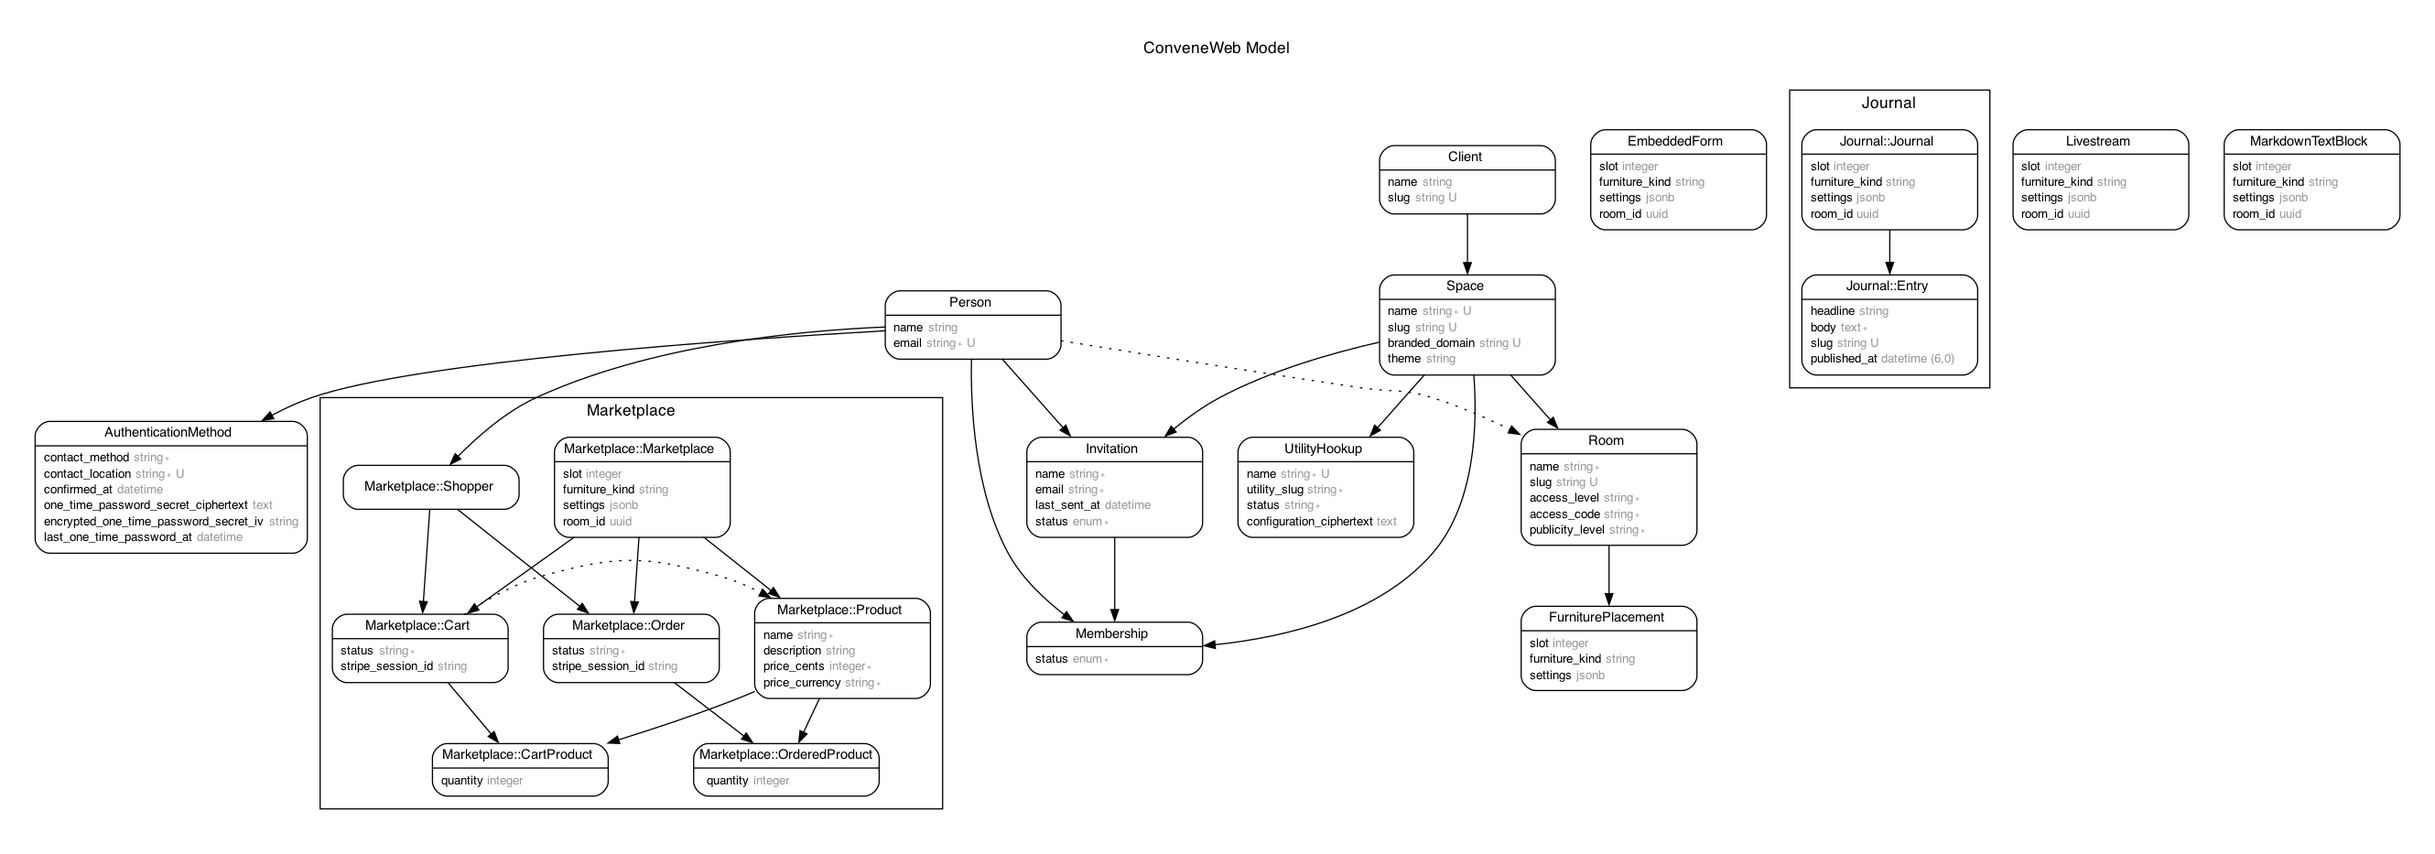
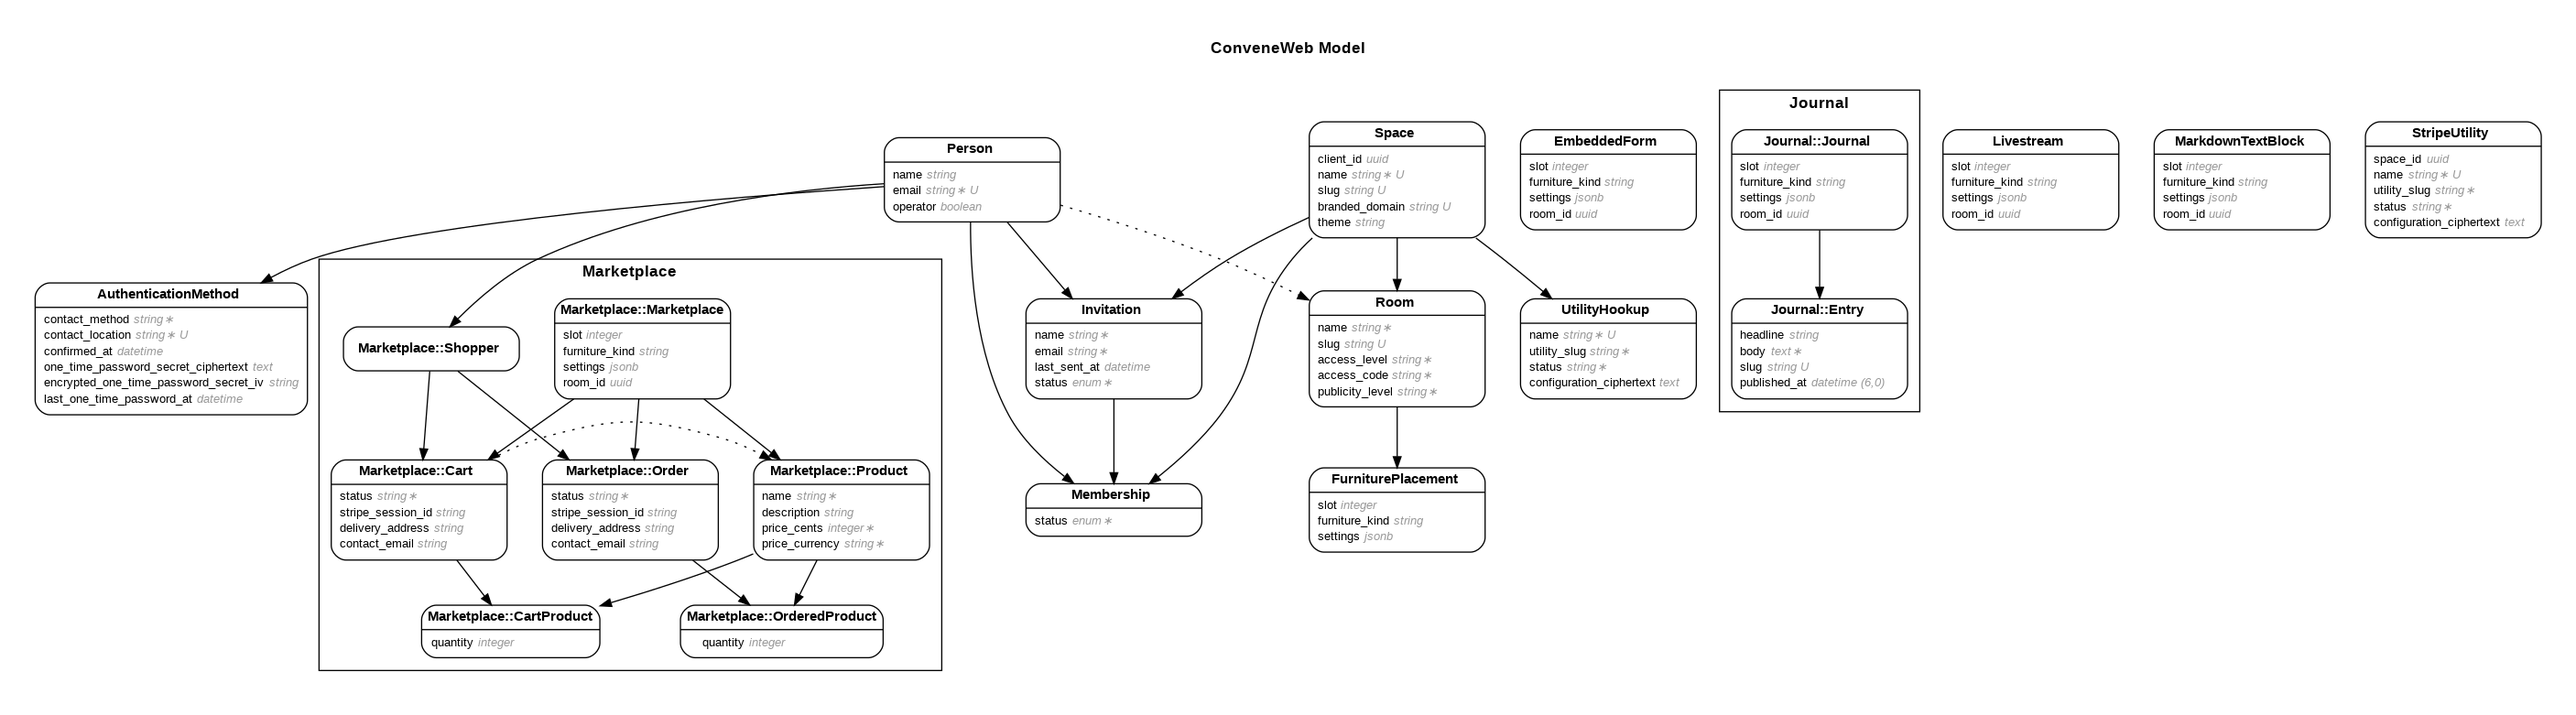
`Client`: Seems unnecessary and is getting in the way of things
At some point, we may need to group `Space`s within `Client`, but today
is not that day.

diff --git a/features/lib/Space.js b/features/lib/Space.js
@@ -9,8 +9,7 @@ class Space {
       space: {
         name: this.name,
         slug: this.slug,
-        blueprint: "system_test",
-        clientAttributes: { name: this.name },
+        blueprint: "system_test"
       },
     };
   }

diff --git a/spec/models/blueprint_spec.rb b/spec/models/blueprint_spec.rb
@@ -4,22 +4,17 @@ require "rails_helper"
 
 RSpec.describe Blueprint do
   EXAMPLE_CONFIG = {
-    client: {
-      name: "Client A",
-      space: {
-        name: "Client A's Space",
-        members: [{email: "client-a@example.com"}],
-        rooms: [{
-          name: "Room A",
-          access_level: :unlocked,
-          publicity_level: :listed,
-          furniture_placements: {
-            markdown_text_block: {content: "Obi Swan Kenobi"}
-          }
-        }],
-        utility_hookups: []
+    name: "Client A's Space",
+    members: [{email: "client-a@example.com"}],
+    rooms: [{
+      name: "Room A",
+      access_level: :unlocked,
+      publicity_level: :listed,
+      furniture_placements: {
+        markdown_text_block: {content: "Obi Swan Kenobi"}
       }
-    }
+    }],
+    utility_hookups: []
   }.freeze
   describe "#find_or_create" do
     it "respects the Space's current settings" do
@@ -41,7 +36,7 @@ RSpec.describe Blueprint do
     it "Updates a given space" do
       space = create(:space)
 
-      Blueprint.new(EXAMPLE_CONFIG.merge(space: space)).find_or_create!
+      Blueprint.new(EXAMPLE_CONFIG, space: space).find_or_create!
 
       expect(space.rooms.count).to be(1)
     end

diff --git a/spec/models/space/factory_spec.rb b/spec/models/space/factory_spec.rb
@@ -5,8 +5,8 @@ require "rails_helper"
 RSpec.describe Space::Factory do
   describe ".create" do
     it "creates a Space from the given attributes" do
-      attributes = attributes_for(:space, :with_client_attributes)
-      space = Space::Factory.create(attributes)
+      attributes = attributes_for(:space)
+      space = described_class.create(attributes)
 
       expect(space).to be_persisted
       expect(space.name).to eq(attributes[:name])
@@ -17,15 +17,15 @@ RSpec.describe Space::Factory do
     it "upserts if a Space has the provided name already" do
       existing_space = create(:space)
 
-      attributes = attributes_for(:space, :with_client_attributes,
+      attributes = attributes_for(:space,
         name: existing_space.name)
-      space = Space::Factory.create(attributes)
+      space = described_class.create(attributes)
 
       expect(space).to eql(existing_space)
     end
 
     it "applies the blueprint if it's provided" do
-      space = Space::Factory.create(attributes_for(:space, :with_client_attributes,
+      space = described_class.create(attributes_for(:space,
         blueprint: :system_test))
 
       expect(space.rooms).to be_present

diff --git a/spec/models/room_spec.rb b/spec/models/room_spec.rb
@@ -5,9 +5,8 @@ RSpec.describe Room, type: :model do
 
   describe ".slug" do
     it "creates unique slugs by space scope" do
-      client = Client.create(name: "test")
-      space_1 = client.spaces.create(name: "space1")
-      space_2 = client.spaces.create(name: "space2")
+      space_1 = Space.create(name: "space1")
+      space_2 = Space.create(name: "space2")
       space_1_room = space_1.rooms.create(name: "room1", publicity_level: :listed)
       space_2_room = space_2.rooms.create(name: "room1", publicity_level: :listed)
 
@@ -18,8 +17,7 @@ RSpec.describe Room, type: :model do
 
   describe ".listed" do
     it "does not include rooms whose publicity level is unlisted" do
-      client = Client.create(name: "test")
-      space = client.spaces.create(name: "space")
+      space = Space.create(name: "space")
       listed_room = space.rooms.create(publicity_level: :listed, name: "Listed Room")
       unlisted_room = space.rooms.create(publicity_level: :unlisted, name: "Unlisted Room")
 

diff --git a/db/schema.rb b/db/schema.rb
@@ -10,7 +10,7 @@
 #
 # It's strongly recommended that you check this file into your version control system.
 
-ActiveRecord::Schema[7.0].define(version: 2023_02_27_232512) do
+ActiveRecord::Schema[7.0].define(version: 2023_03_02_024315) do
   # These are extensions that must be enabled in order to support this database
   enable_extension "pgcrypto"
   enable_extension "plpgsql"
@@ -70,13 +70,6 @@ ActiveRecord::Schema[7.0].define(version: 2023_02_27_232512) do
     t.datetime "updated_at", null: false
     t.index ["contact_method", "contact_location"], name: "index_authentication_methods_on_contact_fields", unique: true
     t.index ["person_id"], name: "index_authentication_methods_on_person_id"
-  end
-
-  create_table "clients", id: :uuid, default: -> { "gen_random_uuid()" }, force: :cascade do |t|
-    t.string "name"
-    t.string "slug"
-    t.datetime "created_at", null: false
-    t.datetime "updated_at", null: false
   end
 
   create_table "friendly_id_slugs", force: :cascade do |t|

diff --git a/app/models/system_test_space.rb b/app/models/system_test_space.rb
@@ -12,16 +12,12 @@ class SystemTestSpace
 
     Space.find_by(name: "System Test")&.destroy
 
-    Blueprint.new(client: {name: "System Test",
-                           space: DEFAULT_SPACE_CONFIG.merge(
-                             name: "System Test Branded Domain",
-                             branded_domain: "system-test.zinc.local"
-                           )}).find_or_create!
+    Blueprint.new(DEFAULT_SPACE_CONFIG.merge(
+      name: "System Test Branded Domain",
+      branded_domain: "system-test.zinc.local"
+    )).find_or_create!
 
-    Blueprint.new(client: {name: "System Test",
-                           space: DEFAULT_SPACE_CONFIG
-                              .merge(name: "System Test")})
-      .find_or_create!
+    Blueprint.new(DEFAULT_SPACE_CONFIG.merge(name: "System Test")).find_or_create!
   end
 
   DEFAULT_SPACE_CONFIG = Blueprint::BLUEPRINTS[:system_test]

diff --git a/spec/requests/spaces_controller_request_spec.rb b/spec/requests/spaces_controller_request_spec.rb
@@ -45,7 +45,7 @@ RSpec.describe SpacesController, type: :request do
       let(:Authorization) { encode_authorization_token(api_key) }
       let(:body) { {space: attributes} }
       response "201", "space created" do
-        let(:attributes) { attributes_for(:space, :with_client_attributes) }
+        let(:attributes) { attributes_for(:space) }
         run_test! do |_response|
           space = Space.find_by(name: attributes[:name])
           expect(space.rooms).to be_empty
@@ -55,7 +55,7 @@ RSpec.describe SpacesController, type: :request do
       end
 
       context "with a blueprint" do
-        let(:attributes) { attributes_for(:space, :with_client_attributes, blueprint: :system_test) }
+        let(:attributes) { attributes_for(:space, blueprint: :system_test) }
 
         response "201", "space created from the blueprint" do
           run_test! do |_response|

diff --git a/app/models/blueprint.rb b/app/models/blueprint.rb
@@ -4,8 +4,11 @@
 class Blueprint
   attr_accessor :attributes
 
-  def initialize(attributes)
+  attr_writer :space
+
+  def initialize(attributes, space: nil)
     @attributes = attributes
+    self.space = space
   end
 
   def find_or_create!
@@ -68,19 +71,11 @@ class Blueprint
   end
 
   def space
-    @space ||= attributes[:space] || client.spaces.find_or_create_by!(name: space_attributes[:name])
-  end
-
-  def client
-    @client ||= Client.find_or_create_by!(name: client_attributes[:name])
-  end
-
-  def client_attributes
-    attributes[:client]
+    @space ||= Space.find_or_create_by!(name: space_attributes[:name])
   end
 
   def space_attributes
-    client_attributes[:space]
+    attributes
   end
 
   # Normally, merge will clobber keys with values if there is a key with a nil

diff --git a/app/models/space.rb b/app/models/space.rb
@@ -6,11 +6,6 @@ class Space < ApplicationRecord
   include WithinLocation
   THEME_OPTIONS = %w[purple_mountains desert_dunes].freeze
 
-  # Which client owns the space
-  belongs_to :client
-
-  accepts_nested_attributes_for :client
-
   # The fully-qualified domain to enter the space.
   # Spaces without a branded_domain are still accessible via their slug.
   # The branded_domain must be unique to ensure we don't accidentally place

diff --git a/spec/factories/space.rb b/spec/factories/space.rb
@@ -2,15 +2,10 @@
 
 FactoryBot.define do
   factory :space do
-    client
     sequence(:name) { |n| "#{Faker::Book.title} #{n}" }
 
     trait :default do
       slug { Neighborhood.config.default_space_slug }
-    end
-
-    trait :with_client_attributes do
-      client_attributes { attributes_for(:client) }
     end
 
     trait :with_members do

diff --git a/app/policies/space_policy.rb b/app/policies/space_policy.rb
@@ -23,7 +23,7 @@ class SpacePolicy < ApplicationPolicy
   alias_method :create?, :destroy?
 
   def permitted_attributes(_params)
-    [:name, :slug, :theme, :entrance_id, :blueprint, client_attributes: [:name]]
+    [:name, :slug, :theme, :entrance_id, :blueprint]
   end
 
   class Scope < ApplicationScope

diff --git a/app/models/space/factory.rb b/app/models/space/factory.rb
@@ -8,8 +8,7 @@ class Space::Factory
 
     if blueprint_name.present?
       Blueprint.new(
-        client: {name: space.client.name,
-                 space: Blueprint::BLUEPRINTS[blueprint_name]},
+        Blueprint::BLUEPRINTS[blueprint_name],
         space: space
       ).find_or_create!
     end
